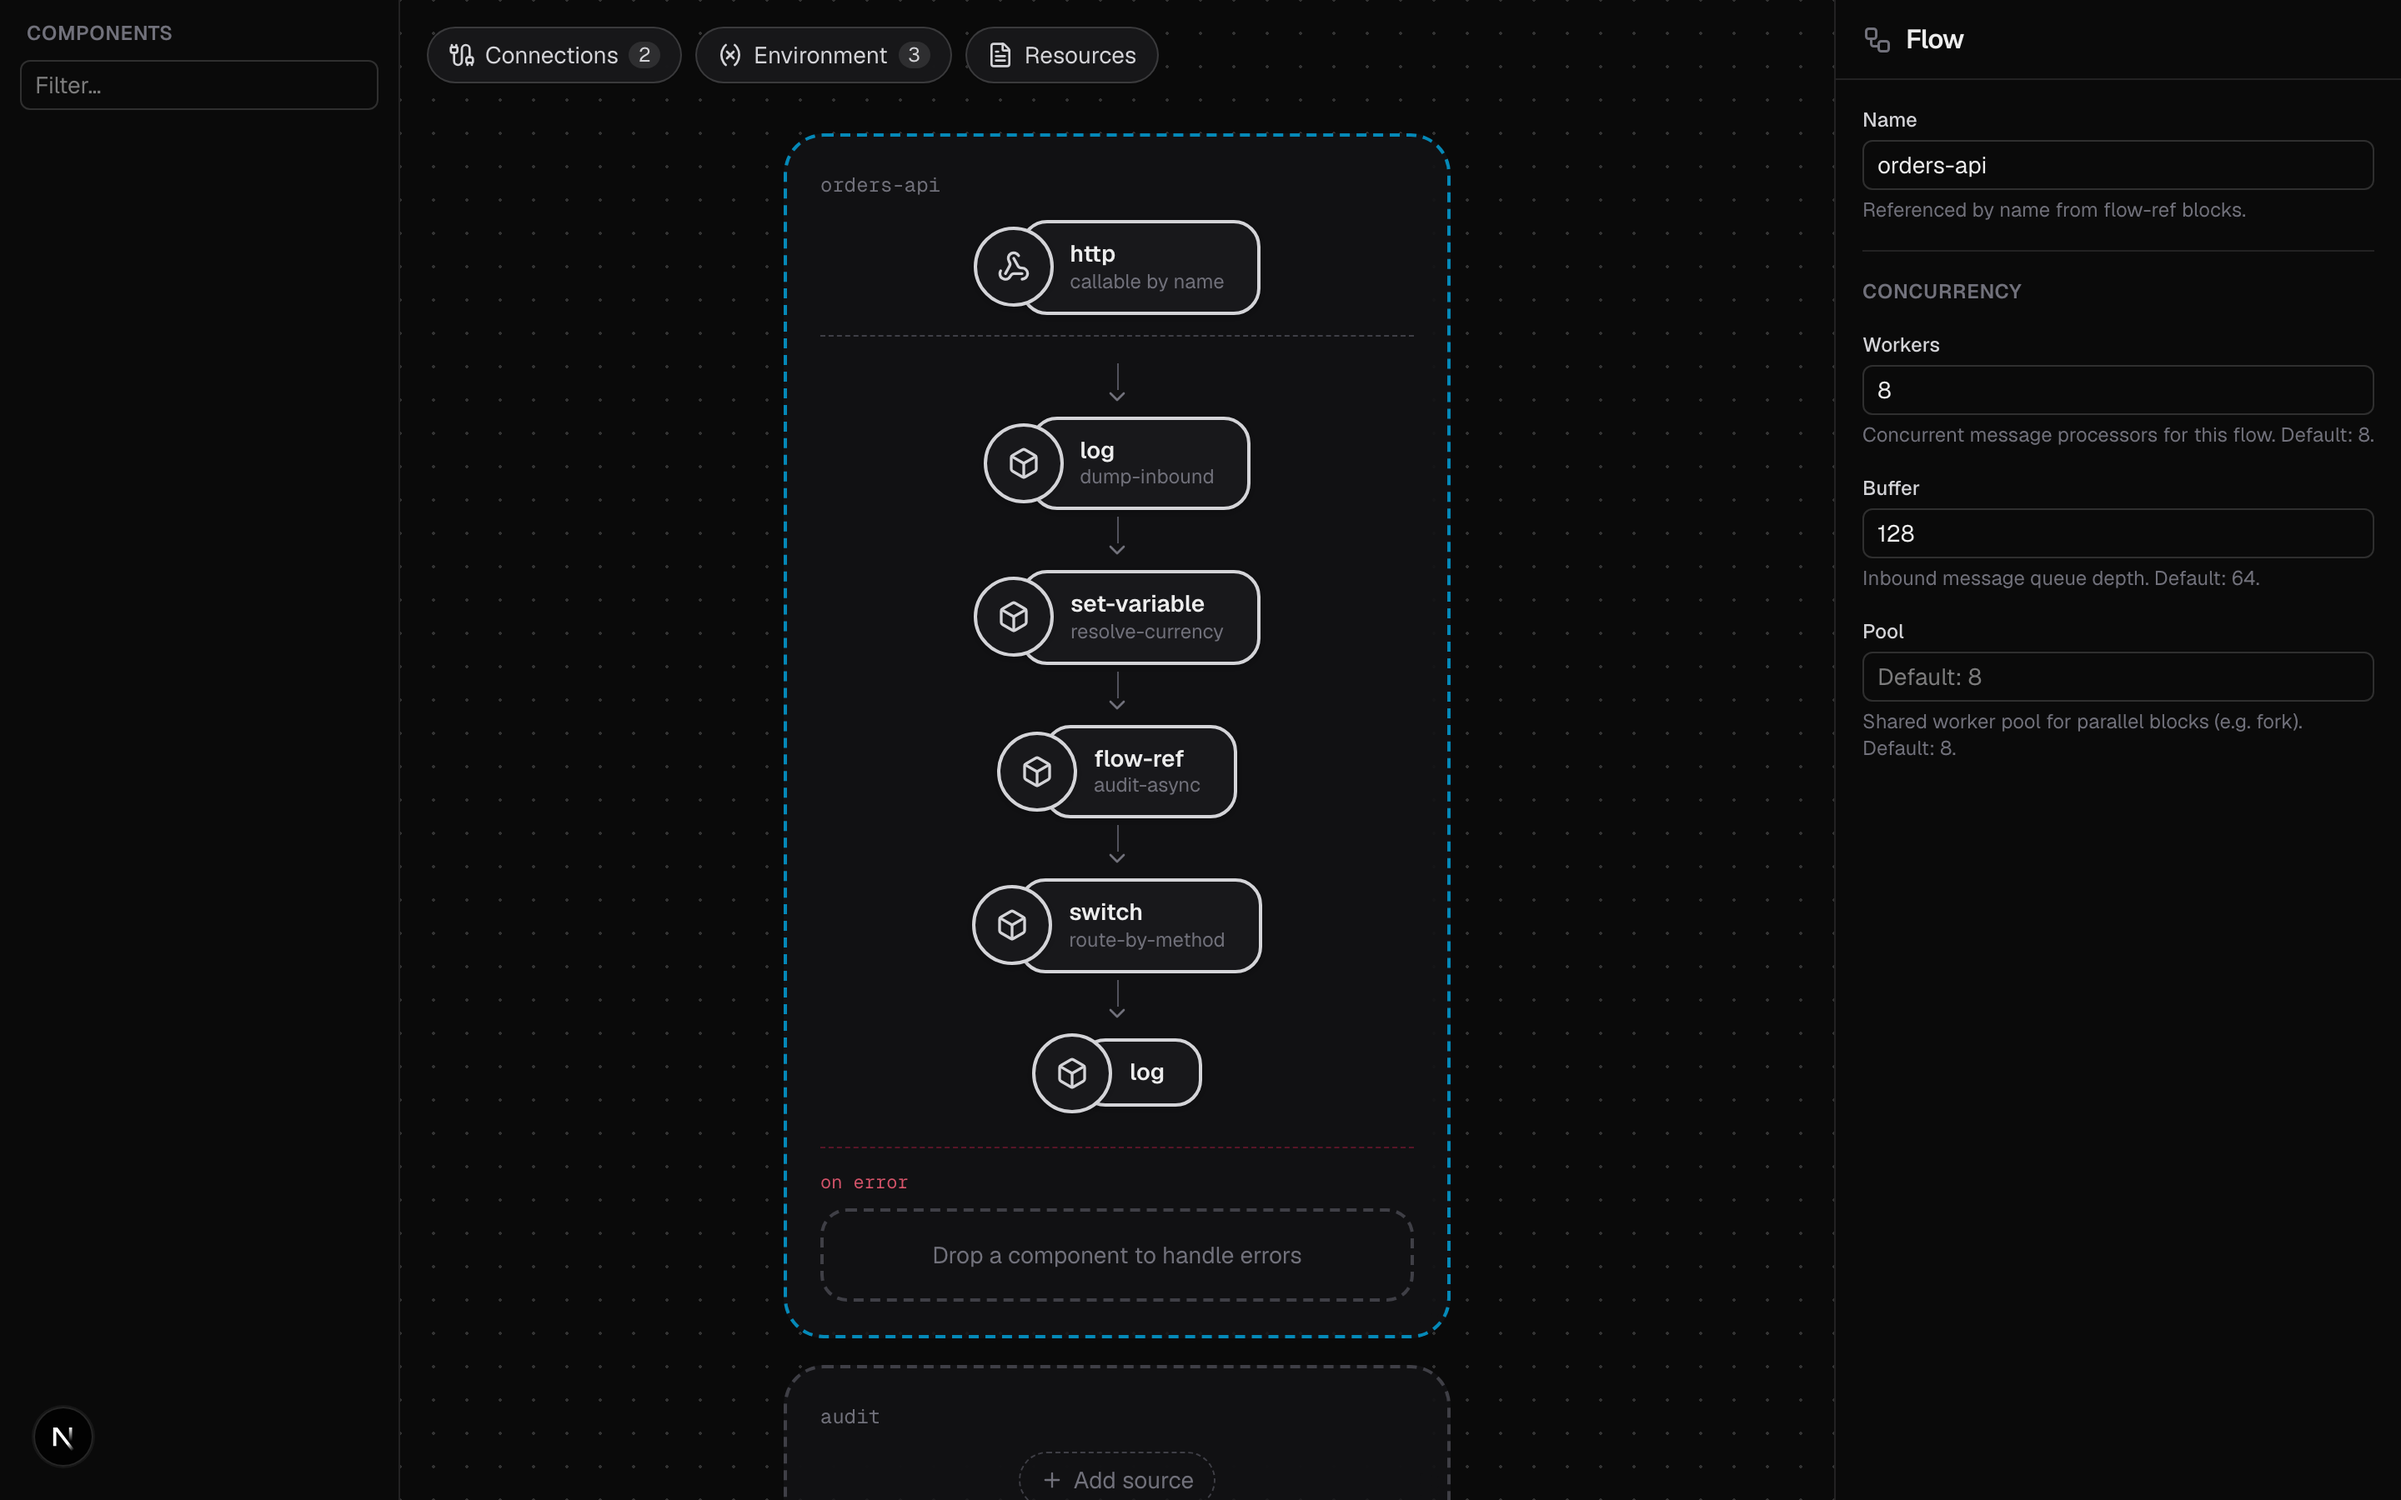
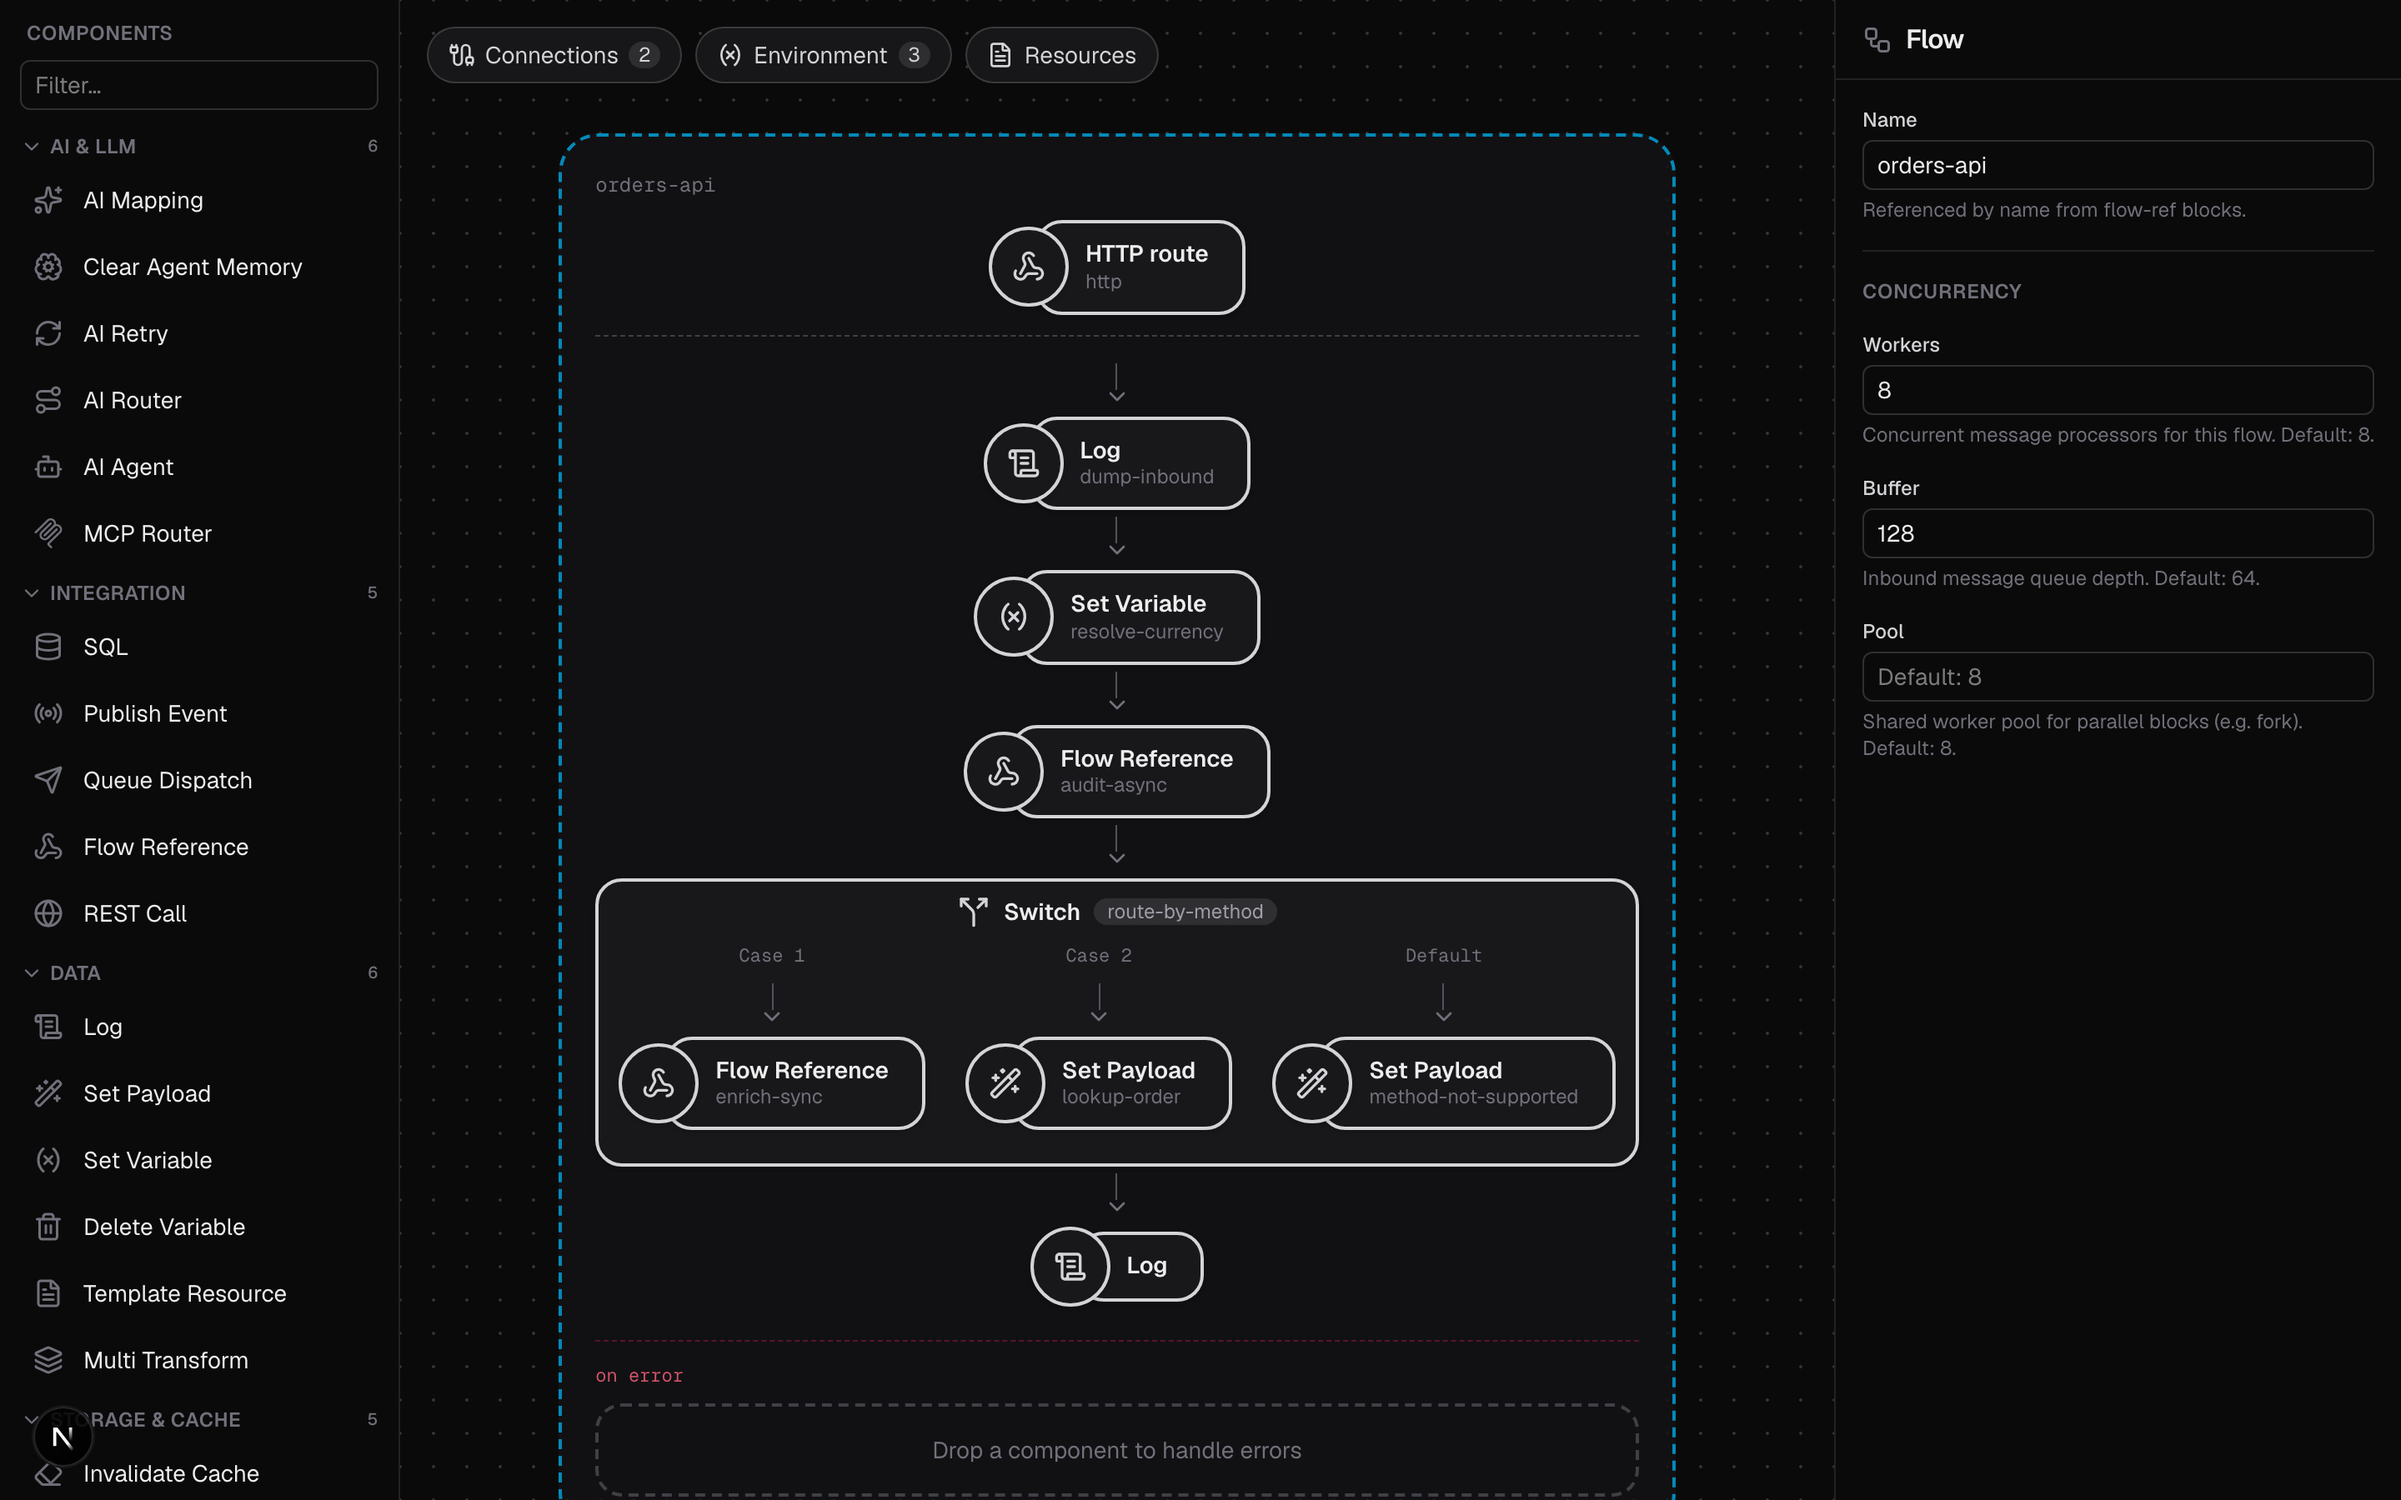
fix(standalone): inject runtime schema into the /preview screenshot route
The Playwright screenshot harness drives the standalone editor's dev-only
/preview route, which rendered EditorRoot directly and never probed or
injected the runtime capability schema. Combined with the harness booting a
bare `next dev` (no OCTO_BIN_PATH), the palette fell back to the empty bundled
capabilities.json — so every auto-generated sample screenshot shot an empty
component palette.

Two independent breaks, both fixed:
- /preview/page.tsx now probes the schema (`octo schema`) and injects it via a
  new PreviewEditor client wrapper that calls setCapabilities before the editor
  renders, mirroring the main page.tsx → StandaloneEditor path.
- playwright.config.ts exports OCTO_BIN_PATH (resolved to bin/octo) into the
  dev server it launches, so probeSchema returns the real 42-block schema.

Regenerated all 18 sample-*.png with populated palettes.

diff --git a/apps/standalone/app/preview/page.tsx b/apps/standalone/app/preview/page.tsx
@@ -1,6 +1,7 @@
 import { notFound } from "next/navigation";
-import { EditorRoot } from "@octo/editor";
-import PreviewLoader from "@/app/components/PreviewLoader";
+import { probeSchema } from "@octo/run-host";
+import type { Capabilities } from "@octo/editor";
+import PreviewEditor from "@/app/components/PreviewEditor";
 
 /**
  * Dev-only preview route: `/preview?sample=<name>` renders a repo sample on the
@@ -8,6 +9,12 @@ import PreviewLoader from "@/app/components/PreviewLoader";
  * with neither a filesystem nor a run capability — so it's a pure read-only
  * editor (no Save, no RUN). Used by the Playwright screenshot harness to capture
  * how flows look. Returns 404 in production builds.
+ *
+ * The capability schema is probed from the bundled `octo` binary (`octo schema`)
+ * and injected into the client editor, so the palette renders its real blocks;
+ * when no runner is configured this resolves to null and the editor falls back
+ * to its bundled JSON (an empty palette). The screenshot harness sets
+ * OCTO_BIN_PATH so the palette is populated in the shots.
  */
 export default async function PreviewPage({
   searchParams,
@@ -16,5 +23,6 @@ export default async function PreviewPage({
 }) {
   if (process.env.NODE_ENV === "production") notFound();
   const { sample } = await searchParams;
-  return <EditorRoot loader={<PreviewLoader sample={sample} />} />;
+  const capabilities = (await probeSchema()) as Capabilities | null;
+  return <PreviewEditor sample={sample} capabilities={capabilities} />;
 }

diff --git a/apps/standalone/playwright.config.ts b/apps/standalone/playwright.config.ts
@@ -1,4 +1,5 @@
 import { defineConfig, devices } from "@playwright/test";
+import path from "node:path";
 
 /**
  * Playwright config for the docs screenshot harness (pnpm run screenshots).
@@ -7,9 +8,17 @@ import { defineConfig, devices } from "@playwright/test";
  * renders a repo sample on a pure editor canvas — no auth, no orchestrator, so
  * there is no sign-in wall to clear.
  *
+ * The dev server is launched directly (not via the root Taskfile), so we export
+ * OCTO_BIN_PATH here to point at the built `octo` binary. The /preview route
+ * probes it for the runtime capability schema; without it the palette falls back
+ * to the empty bundled JSON and the screenshots come out with an empty palette.
+ *
  * Shots render at 1440x900 with deviceScaleFactor 2 so the PNGs are crisp on the
- * landing page. Outputs land in docs/assets/screenshots/.
+ * landing page. Outputs land in apps/docs/public/screenshots/.
  */
+const OCTO_BIN_PATH =
+  process.env.OCTO_BIN_PATH ??
+  path.resolve(__dirname, "..", "..", "bin", "octo");
 export default defineConfig({
   testDir: "./e2e",
   fullyParallel: false,
@@ -36,5 +45,6 @@ export default defineConfig({
     url: "http://localhost:3000/preview?sample=hello-world",
     reuseExistingServer: !process.env.CI,
     timeout: 120_000,
+    env: { OCTO_BIN_PATH },
   },
 });

diff --git a/apps/standalone/app/components/PreviewEditor.tsx b/apps/standalone/app/components/PreviewEditor.tsx
@@ -1,0 +1,24 @@
+"use client";
+
+import { EditorRoot, setCapabilities, type Capabilities } from "@octo/editor";
+import PreviewLoader from "./PreviewLoader";
+
+/**
+ * Client wrapper for the dev-only `/preview` route: injects the runtime-generated
+ * capability schema before the editor's first render, then renders a read-only
+ * editor whose canvas is populated by PreviewLoader. Without this the palette
+ * would fall back to the empty bundled `capabilities.json` — which is why the
+ * Playwright screenshot harness used to shoot an empty palette. Mirrors
+ * StandaloneEditor's `setCapabilities` call; a null value leaves the fallback in
+ * place.
+ */
+export default function PreviewEditor({
+  sample,
+  capabilities,
+}: {
+  sample?: string;
+  capabilities?: Capabilities | null;
+}) {
+  setCapabilities(capabilities);
+  return <EditorRoot loader={<PreviewLoader sample={sample} />} />;
+}
